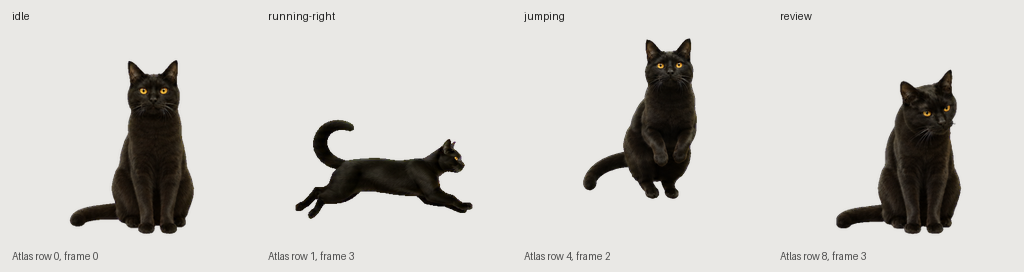
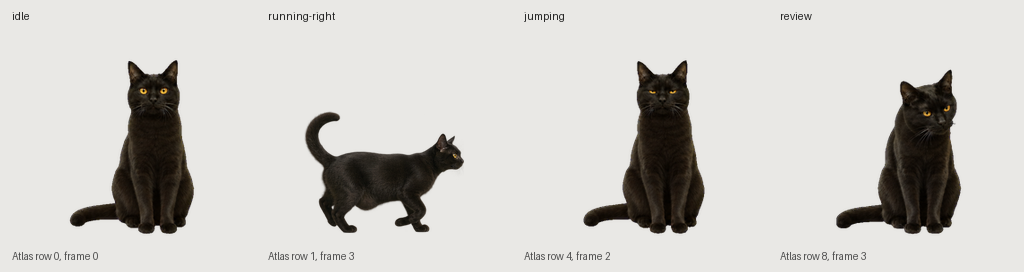
Give Chaibao a fuller walking profile and timed loaf and sleep poses

Changed region(s): [[0.5625, 0.1471, 0.6875, 0.8529], [0.2812, 0.4118, 0.4688, 0.8529]]

diff --git a/tools/build_rest_poses.py b/tools/build_rest_poses.py
@@ -1,0 +1,44 @@
+"""Apply Chaibao's updated body and resting poses to the existing v2 atlas."""
+from pathlib import Path
+
+from PIL import Image, ImageOps
+
+ROOT = Path(__file__).resolve().parents[1]
+PET = ROOT / "assets/pet"
+
+
+def cutouts(name, count, width):
+    strip = Image.open(ROOT / f"assets/source/{name}.png").convert("RGBA")
+    frames = []
+    for index in range(count):
+        part = strip.crop((strip.width * index // count, 0,
+                           strip.width * (index + 1) // count, strip.height))
+        alpha = part.getchannel("A")
+        part = part.crop(alpha.point(lambda a: 255 if a > 18 else 0).getbbox())
+        frames.append(part)
+    scale = width / max(part.width for part in frames)
+    for part in frames:
+        part = part.resize((round(part.width * scale), round(part.height * scale)),
+                           Image.Resampling.LANCZOS)
+        cell = Image.new("RGBA", (192, 208))
+        cell.alpha_composite(part, ((192 - part.width) // 2, 201 - part.height))
+        yield cell
+
+
+def main():
+    path = PET / "spritesheet.png"
+    sheet = Image.open(path).convert("RGBA")
+    walk = list(cutouts("walk", 4, 174))
+    for i, cell in enumerate(walk * 2):
+        sheet.paste(cell, (192 * i, 208))
+        sheet.paste(ImageOps.mirror(cell), (192 * i, 416))
+    for i in range(5):
+        sheet.paste(sheet.crop((192*i, 0, 192*(i+1), 208)), (192*i, 832))
+    for name, cell in zip(("loaf", "sleep"), cutouts("rest", 2, 155)):
+        cell.save(PET / f"{name}.png")
+    sheet.save(path)
+
+
+if __name__ == "__main__":
+    main()
+

diff --git a/docs/INSTALL.md b/docs/INSTALL.md
@@ -1,13 +1,14 @@
-# 在 ChatGPT 桌面显示柴宝
+# 使用柴宝桌宠
 
-本机已经完成安装，已在 Windows 桌面右下角确认柴宝出现。可以用“显示虚拟宠物”打开，或用 Windows + Alt + P 切换显示。
+在本机双击桌面的「柴宝桌宠」即可启动。鼠标移过或点击柴宝，他会坐起来。按住左键可以拖动，右键可以关闭。使用其他程序不会重置计时。五分钟未碰他会揣手趴下，十分钟会蜷睡。
 
-## 在另一台电脑安装
+## 换一台 Windows 电脑
 
-1. 用拥有柴宝的账号打开 ChatGPT 桌面版，并连接 Pets。
-2. 在聊天中发送“请给我柴宝的桌面安装链接，宠物 ID 是 pet_6af44200f51881918adc16d028ef9653”。
-3. 点击生成的安装链接，用 ChatGPT 打开。如果出现选择提示，选“柴宝”，然后打开“显示虚拟宠物”。
+下载并解压整个项目。安装带 Tk 的 Python 3，在项目目录运行：
 
-安装链接使用有时效的图集地址。链接过期时可按第 2 步重新获取。
+```powershell
+python -m pip install Pillow
+pythonw chaibao.pyw
+```
 
-[ChatGPT Pets 使用说明](https://learn.chatgpt.com/docs/pets)
+ChatGPT 内置宠物使用同一坐姿和新版侧面步态。计时休息由独立的 Windows 版提供。若同时显示两只，可在 ChatGPT 输入框选择 `/pet` 命令收起内置宠物。

diff --git a/README.md b/README.md
@@ -1,8 +1,8 @@
 # Chaibao_DigitaldeskPet
 
-柴宝是按照片制作的 ChatGPT 桌宠，保留了黑色短毛、金色眼睛和略圆的脸颊。Windows 桌面端已安装并确认显示。
+柴宝是按照片制作的 ChatGPT 桌宠，保留了黑色短毛、金色眼睛和略圆的脸颊。Windows 版会在上次碰触后五分钟揣手、十分钟蜷睡，鼠标移过或点击就坐起来。双击桌面的「柴宝桌宠」启动。
 
-[安装与显示](docs/INSTALL.md) · [动画预览](docs/preview/chaibao.gif) · [制作记录](docs/WORKFLOW.md)
+[安装与显示](docs/INSTALL.md) · [休息姿势](docs/preview/rest.png) · [动作预览](docs/preview/chaibao.gif) · [制作记录](docs/WORKFLOW.md)
 
 ## 项目结构
 
@@ -22,3 +22,4 @@ python tools/render_previews.py
 ## 同步到 GitHub
 
 此工作副本已启用提交后推送。新克隆的副本可运行 `git config core.hooksPath .githooks` 启用同一行为。推送失败时，提交保留在本地，可运行 `git push` 重试。
+

diff --git a/docs/WORKFLOW.md b/docs/WORKFLOW.md
@@ -15,7 +15,5 @@
 
 ## 当前状态
 
-已完成九组动作和十六个视线方向，共 73 帧。最终 PNG 通过 Pets 校验并已激活，在 Windows 桌面上确认显示。左右奔跑、跳跃和舔爪洗脸随宿主状态播放。休息使用缓慢眨眼，当前没有单独的蜷睡动画。图集 SHA-256 为 02164ef9949506366865181d41ae8c34e0c962f2def66e62c7be0b8ae1d1ba51。
-
-原始照片、临时上传会话、登录凭据和带时效性的下载地址不进入 Git。
+行走使用四帧侧面步态，每个方向循环两次。图集保留 Pets 要求的跳跃栏位，画面改为原地坐姿。Windows 版单独加载揣手、蜷睡姿势，从最后一次碰触起计时，分别于 300 秒、600 秒切换。新动作源图位于 assets/source/walk.png 和 rest.png，运行 python tools/build_rest_poses.py 可重建。
 
